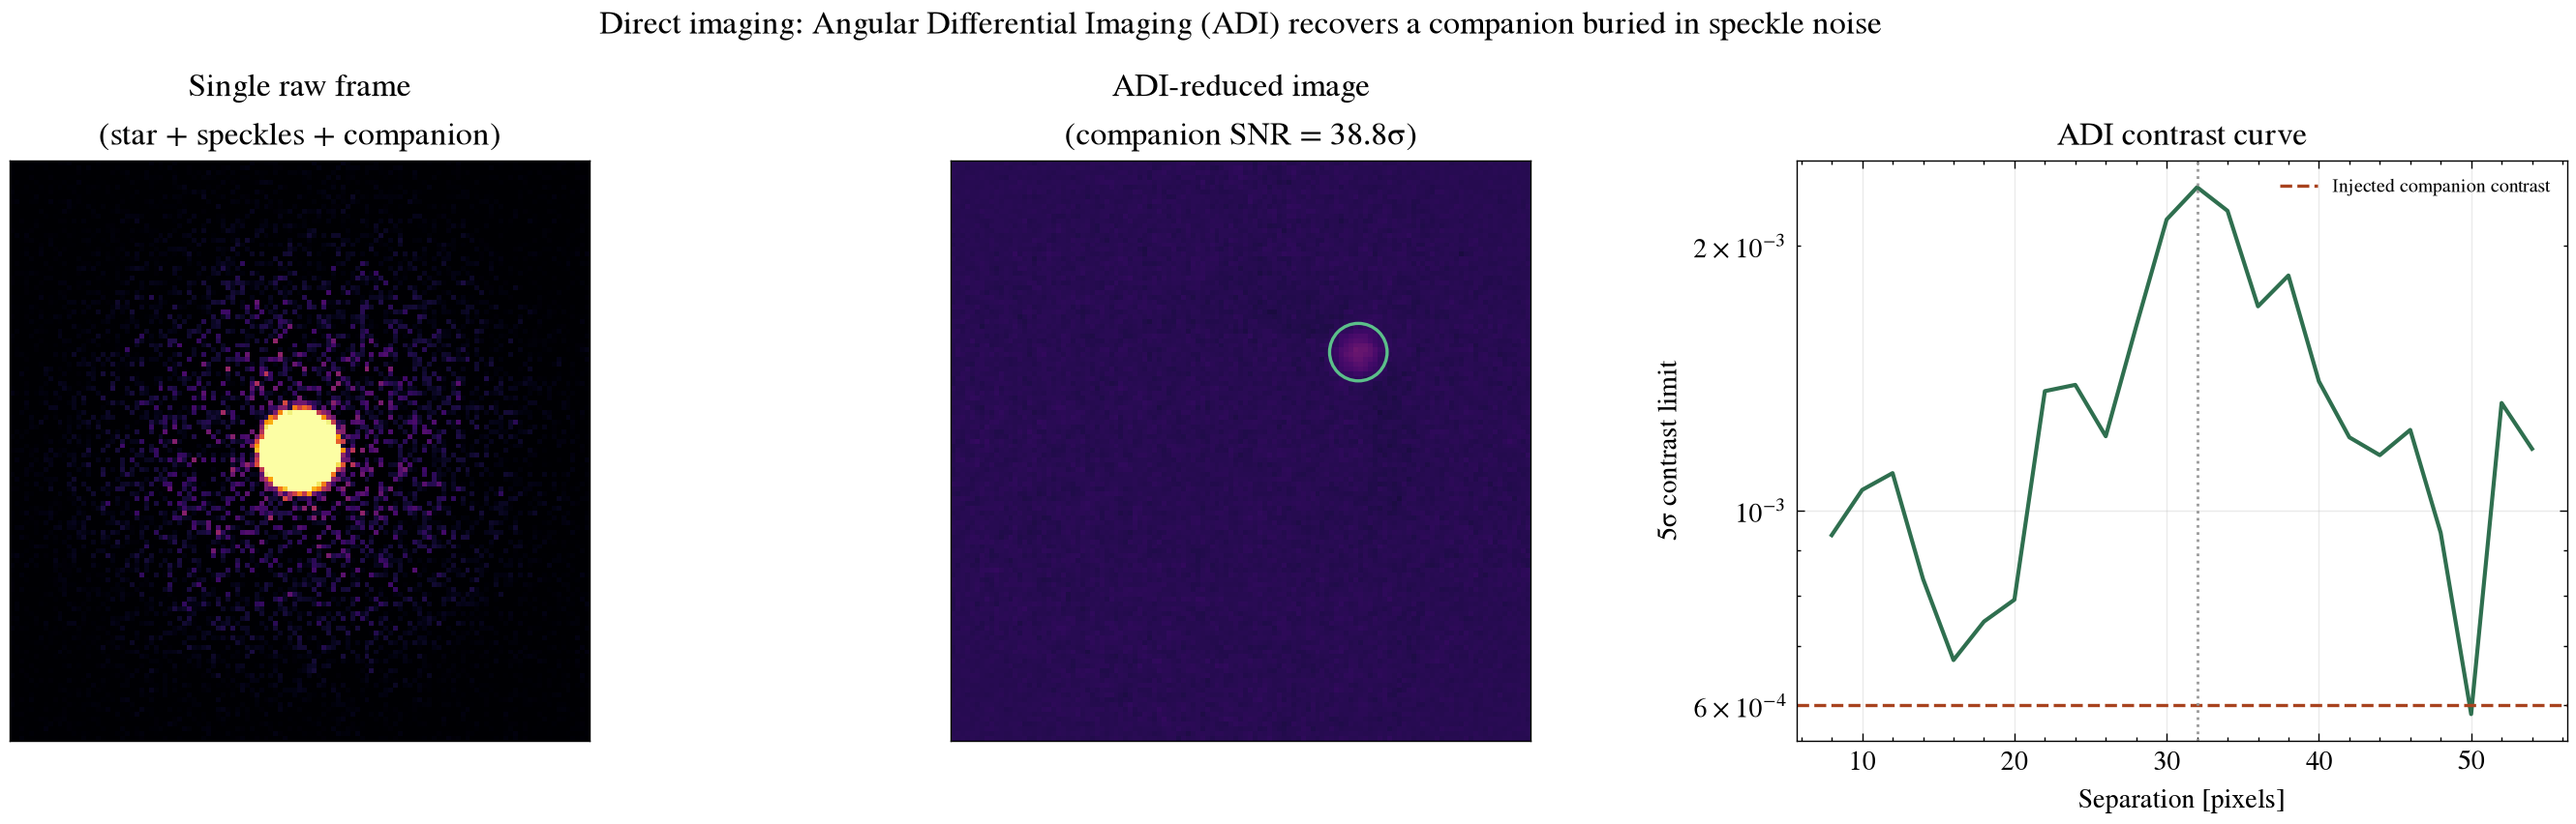
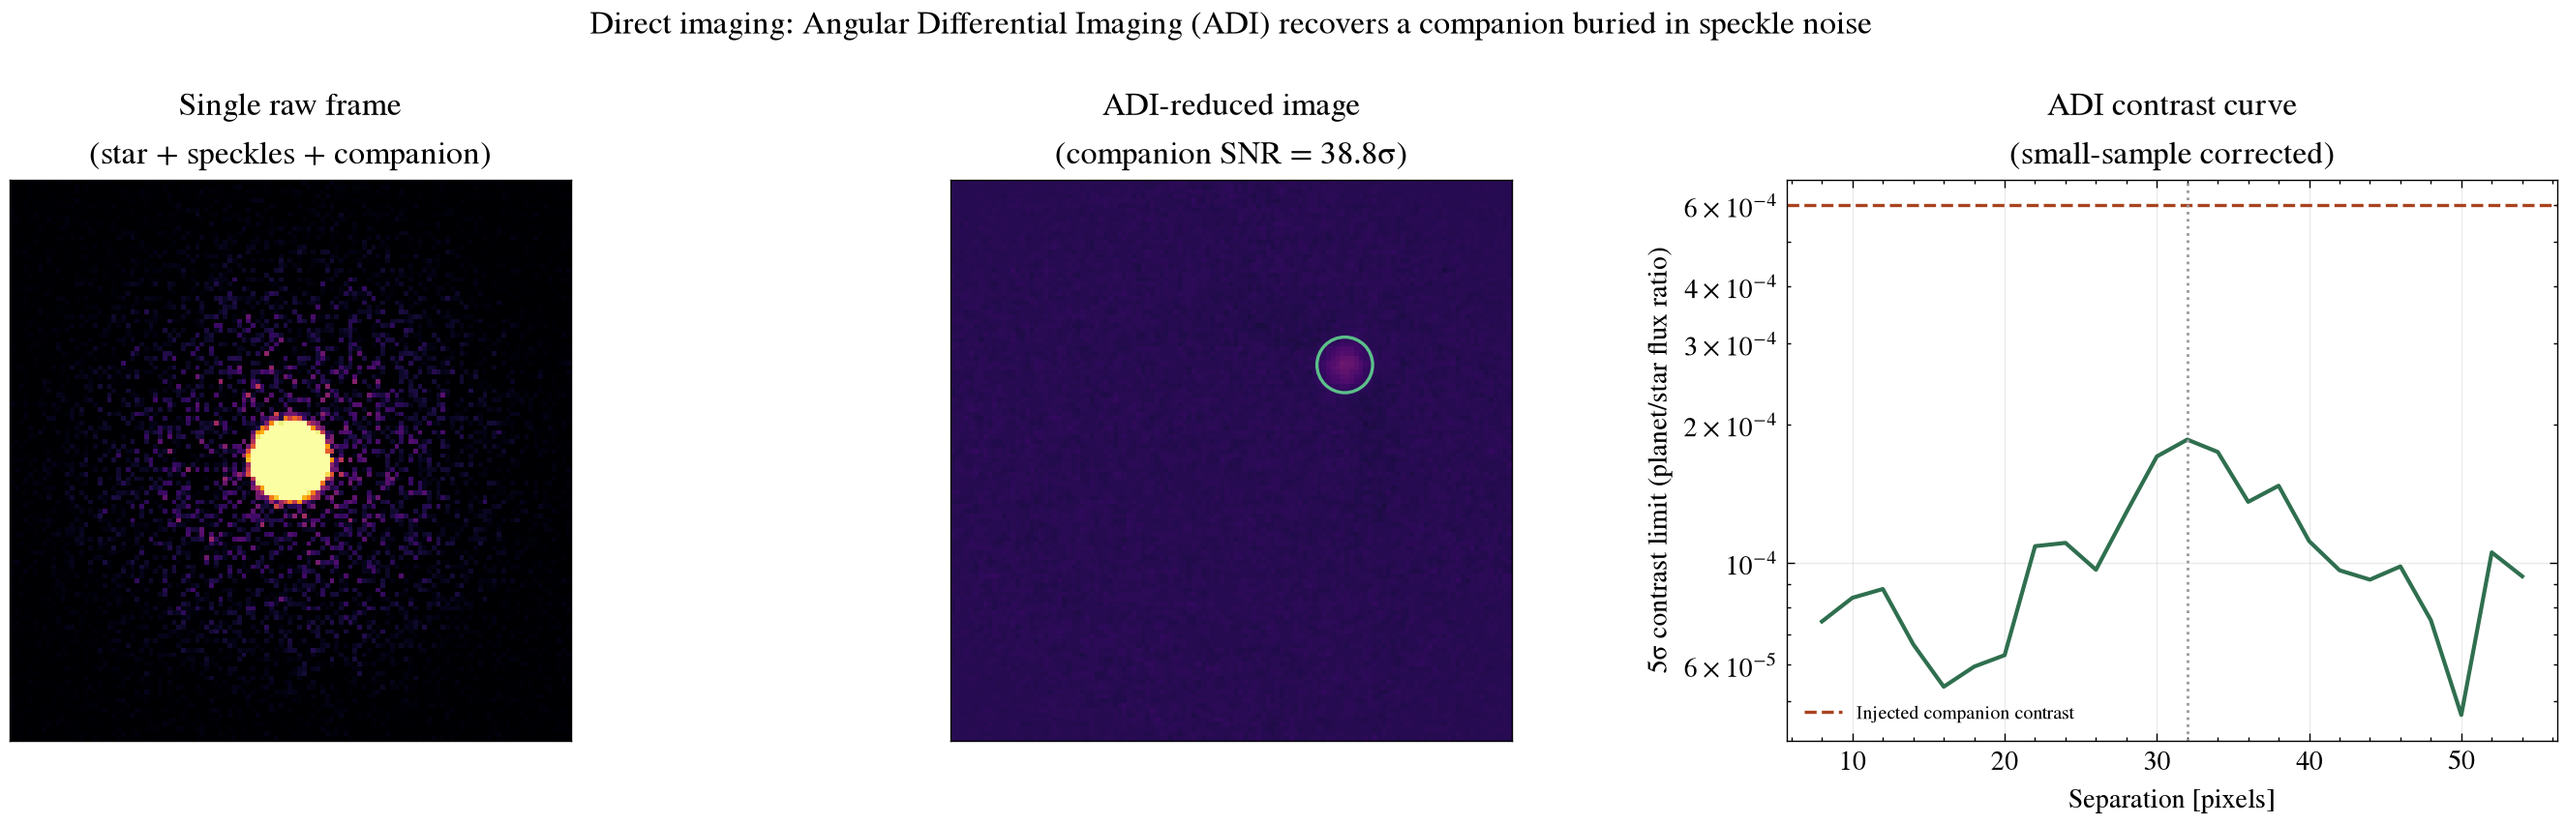
Calibrate contrast curve to true flux-ratio units and apply Mawet et al. small-sample correction; expand physics explanation

diff --git a/scripts/direct_imaging_demo.py b/scripts/direct_imaging_demo.py
@@ -27,6 +27,7 @@ import matplotlib.pyplot as plt
 import scienceplots  # noqa: F401 (registers 'science' style)
 import numpy as np
 from scipy.ndimage import rotate
+from scipy.stats import norm, t as student_t
 
 plt.style.use(["science", "no-latex"])
 
@@ -65,14 +66,26 @@ def aperture_photometry(image: np.ndarray, sep_px: float, pa_deg: float, radius_
     return image[mask].sum()
 
 
-def annulus_noise(image: np.ndarray, sep_px: float, exclude_pa_deg: float, radius_px: float = 4.0, n_apertures: int = 12) -> float:
+def annulus_noise(image: np.ndarray, sep_px: float, exclude_pa_deg: float, radius_px: float = 4.0, n_apertures: int = 12) -> tuple[float, int]:
     fluxes = []
     for k in range(n_apertures):
         pa = k * 360.0 / n_apertures
         if abs(((pa - exclude_pa_deg + 180) % 360) - 180) < 30:
             continue
         fluxes.append(aperture_photometry(image, sep_px, pa, radius_px))
-    return float(np.std(fluxes))
+    return float(np.std(fluxes)), len(fluxes)
+
+
+def small_sample_sigma_factor(sigma_level: float, n_independent: int) -> float:
+    """Mawet et al. (2014): a naive Gaussian sigma threshold overstates
+    confidence when the annulus only contains a handful of independent
+    noise samples. This corrects the multiplier by replacing the Gaussian
+    quantile with the equivalent Student-t quantile for n_independent - 1
+    degrees of freedom, scaled by sqrt(1 + 1/n_independent) for the
+    finite-sample penalty (their Eq. 9-10)."""
+    p_two_sided = 2 * (1 - norm.cdf(sigma_level))
+    t_crit = student_t.ppf(1 - p_two_sided / 2, df=max(n_independent - 1, 1))
+    return t_crit * np.sqrt(1 + 1.0 / n_independent)
 
 
 def main() -> None:
@@ -98,22 +111,32 @@ def main() -> None:
     derotated = np.array([rotate(residuals[i], -rotation_angles[i], reshape=False, order=1) for i in range(N_FRAMES)])
     adi_final = np.mean(derotated, axis=0)
 
-    raw_snr = aperture_photometry(frames[0] - star_psf, COMPANION_SEP_PX, COMPANION_PA0_DEG) / annulus_noise(frames[0] - star_psf, COMPANION_SEP_PX, COMPANION_PA0_DEG)
+    # Normalize by the star's own aperture flux (through the same aperture
+    # used for the companion) so noise-vs-flux comparisons are a true
+    # dimensionless contrast, not raw pixel-sum units.
+    star_aperture_flux = aperture_photometry(star_psf, 0, 0, radius_px=4.0)
+
+    raw_noise, _ = annulus_noise(frames[0] - star_psf, COMPANION_SEP_PX, COMPANION_PA0_DEG)
+    raw_snr = aperture_photometry(frames[0] - star_psf, COMPANION_SEP_PX, COMPANION_PA0_DEG) / raw_noise
     adi_flux = aperture_photometry(adi_final, COMPANION_SEP_PX, COMPANION_PA0_DEG)
-    adi_noise = annulus_noise(adi_final, COMPANION_SEP_PX, COMPANION_PA0_DEG)
+    adi_noise, n_indep = annulus_noise(adi_final, COMPANION_SEP_PX, COMPANION_PA0_DEG)
     adi_snr = adi_flux / adi_noise
 
     injected_flux = aperture_photometry(gaussian_psf(COMPANION_SEP_PX, COMPANION_PA0_DEG, COMPANION_CONTRAST), COMPANION_SEP_PX, COMPANION_PA0_DEG)
     flux_recovery_pct = adi_flux / injected_flux * 100
 
-    # Simple 5-sigma contrast curve vs separation from the ADI-reduced image.
+    # 5-sigma-equivalent contrast curve vs separation from the ADI-reduced
+    # image, normalized to the star's own aperture flux and corrected for
+    # the small number of independent noise samples at each separation
+    # (Mawet et al. 2014) rather than a flat Gaussian "5 x noise".
     seps = np.arange(8, 55, 2)
     contrast_5sigma = []
     for s in seps:
         # Exclude the injected companion's own position angle so its real
         # flux doesn't bias the noise-floor estimate at its own separation.
-        noise = annulus_noise(adi_final, s, exclude_pa_deg=COMPANION_PA0_DEG)
-        contrast_5sigma.append(5 * noise)
+        noise, n_apertures_here = annulus_noise(adi_final, s, exclude_pa_deg=COMPANION_PA0_DEG)
+        factor = small_sample_sigma_factor(5.0, n_apertures_here)
+        contrast_5sigma.append(factor * noise / star_aperture_flux)
 
     summary_path = FIG_DIR / "summary_statistics.csv"
     with summary_path.open("w", newline="") as handle:
@@ -124,6 +147,8 @@ def main() -> None:
         writer.writerow(["adi_reduced_snr", f"{adi_snr:.2f}", "sigma"])
         writer.writerow(["snr_improvement_factor", f"{adi_snr/raw_snr:.2f}", "x"])
         writer.writerow(["recovered_flux_fraction", f"{flux_recovery_pct:.1f}", "percent of injected"])
+        writer.writerow(["contrast_curve_n_independent_at_companion_sep", n_indep, "count (used for small-sample correction)"])
+        writer.writerow(["contrast_5sigma_at_companion_sep", f"{contrast_5sigma[np.argmin(np.abs(seps-COMPANION_SEP_PX))]:.2e}", "planet/star flux ratio, small-sample-corrected"])
 
     fig, axes = plt.subplots(1, 3, figsize=(14, 4.4))
 
@@ -142,8 +167,8 @@ def main() -> None:
     axes[2].axvline(COMPANION_SEP_PX, color="#999", ls=":", lw=1)
     axes[2].set_yscale("log")
     axes[2].set_xlabel("Separation [pixels]")
-    axes[2].set_ylabel("5σ contrast limit")
-    axes[2].set_title("ADI contrast curve")
+    axes[2].set_ylabel("5σ contrast limit (planet/star flux ratio)")
+    axes[2].set_title("ADI contrast curve\n(small-sample corrected)")
     axes[2].legend(fontsize=7)
     axes[2].grid(alpha=0.25)
 
@@ -156,6 +181,7 @@ def main() -> None:
     print(f"Raw single-frame SNR: {raw_snr:.2f} sigma")
     print(f"ADI-reduced SNR: {adi_snr:.2f} sigma ({adi_snr/raw_snr:.2f}x improvement)")
     print(f"Recovered flux: {flux_recovery_pct:.1f}% of injected")
+    print(f"5-sigma contrast at companion separation ({n_indep} independent apertures, small-sample corrected): {contrast_5sigma[np.argmin(np.abs(seps-COMPANION_SEP_PX))]:.2e}")
 
 
 if __name__ == "__main__":

diff --git a/README.md b/README.md
@@ -2,65 +2,106 @@
 
 The only method that produces an actual picture of a planet: resolve
 its light as a separate point source next to its host star. This repo
-explains the physics and implements a real Angular Differential Imaging
-(ADI) reduction pipeline in Python from scratch, validated by injecting
-a known companion buried in realistic speckle noise and recovering it.
+works through the physics, implements an Angular Differential Imaging
+(ADI) reduction pipeline in Python from scratch, and validates it by
+injecting a companion into a simulated speckle-limited sequence and
+recovering it — including a contrast curve calibrated in proper flux-
+ratio units with a correction for how few independent noise samples
+exist close to the star.
 
 ## The physics
 
-Direct imaging faces two combined, brutal real challenges: **contrast**
-(a Jupiter-mass planet is roughly $10^{-4}$ to $10^{-9}$ times fainter
-than its star, depending on age and wavelength) and **angular
-separation** (most known planets are far too close to their star to be
-resolved from typical distances). Adaptive optics correct atmospheric
-turbulence in real time, but residual, slowly-evolving "quasi-static"
-speckles — imperfections in the optics themselves — remain the real
-dominant noise source at small separations, often far exceeding
-ordinary photon noise. Angular Differential Imaging (Marois et al.
-2006) exploits the fact that on an alt-az telescope with the field
-derotator off, the sky (and any real companion) appears to rotate
-around the star across an observing sequence while the instrument's own
-speckle pattern stays fixed on the detector. Subtracting a
-reference frame built from the sequence removes most of the
-star and its speckles while a real companion — whose position moves
-between frames — survives, and can be recovered by de-rotating each
-residual frame back to sky orientation before combining.
+### Two problems at once
+
+Direct imaging faces two combined challenges: **contrast** (a Jupiter-
+mass planet is roughly $10^{-4}$ to $10^{-9}$ times fainter than its
+star, depending on age and wavelength) and **angular separation** (most
+known planets sit far too close to their star to be resolved from
+typical distances — the angular separation of a planet at 1 AU seen
+from 10 parsecs is only 0.1 arcseconds, comparable to or smaller than
+the diffraction limit of even a large telescope at visible wavelengths).
+Both have to be overcome simultaneously: a wide-orbit planet is easier
+to separate from its star angularly but usually fainter in absolute
+terms too, since it intercepts less starlight and formed farther from
+the heat of formation.
+
+### Why speckles, not just diffraction, set the floor
+
+A telescope's diffraction pattern (the Airy pattern for a circular
+aperture) sets a hard geometric limit on angular resolution, but real
+high-contrast imaging is usually limited by something else entirely:
+adaptive optics correct atmospheric turbulence in real time, but leave
+behind residual, slowly-evolving "quasi-static" speckles — small
+imperfections in the optics and imperfect AO correction that produce a
+mottled pattern of bright and dark spots across the field, each one
+looking exactly like a faint point source would. These speckles evolve
+on minutes-to-hours timescales (as temperature and mechanical flexure
+shift the optics slightly) and typically dominate over ordinary photon
+noise at the separations where planets are found, which is why simply
+integrating longer doesn't help much — the noise doesn't average down
+the way photon noise does, because it isn't random from exposure to
+exposure.
+
+### How ADI tells a planet from a speckle
+
+Angular Differential Imaging (Marois et al. 2006) exploits geometry: on
+an alt-az telescope with the image derotator switched off (or
+deliberately disabled), the sky appears to rotate around the field
+center over the course of a night while the telescope's own optics —
+and their speckle pattern — stay fixed relative to the detector. A real
+companion, fixed on the sky, traces an arc across the detector as the
+field rotates; the speckles don't move at all. Building a reference
+image from the sequence (the simplest version: the median of all
+frames) captures the star and its speckles well, since they're present
+in every frame in the same place, while the companion is smeared across
+many different positions and contributes little to the median. Subtract
+that reference from each frame, and what's left is mostly the moving
+companion signal on a much fainter noise floor. De-rotating each
+residual frame back to a common sky orientation before combining makes
+the companion's signal add up coherently while the leftover speckle
+residue, no longer at a fixed detector position, partially cancels.
 
 ## Why this method matters
 
-Direct imaging is the only real technique that yields a planet's own
-light directly: its spectrum, its temperature, sometimes even
-resolved orbital motion over years, all without needing a fortunate
-transit alignment or a large reflex velocity. It works best for young,
-still-warm, self-luminous giant planets on wide orbits — real systems
-like HR 8799 (four real imaged giant planets) and Beta Pictoris b
-were found and characterized this way.
+Direct imaging is the only technique that yields a planet's own light
+directly: its spectrum, its temperature, sometimes resolved orbital
+motion over years, all without needing a fortunate transit alignment or
+a large reflex velocity. It works best for young, still-warm, self-
+luminous giant planets on wide orbits — systems like HR 8799 (four
+imaged giant planets) and Beta Pictoris b were found and characterized
+this way, and it remains the main way to study a planet's atmosphere
+independent of transmission or emission spectroscopy during transit.
 
-**Real limitation:** direct imaging is strongly biased toward young
-(hot, still glowing from formation), massive, wide-separation planets
-around nearby stars — it is currently essentially blind to older,
-cooler, close-in planets like most of the real archival JWST/HST
-targets covered elsewhere in this portfolio, which is exactly why
-transit and radial-velocity spectroscopy remain necessary for
-characterizing the bulk of the known exoplanet population.
+**Limitation:** direct imaging is strongly biased toward young (hot,
+still glowing from formation), massive, wide-separation planets around
+nearby stars — it's currently close to blind to older, cooler, close-in
+planets like most of the archival JWST/HST targets covered elsewhere in
+this portfolio, which is exactly why transit and radial-velocity
+spectroscopy remain necessary for characterizing the bulk of the known
+exoplanet population.
 
 ## What this repo's code does
 
 `scripts/direct_imaging_demo.py`:
 
 1. Simulates a 30-frame ADI sequence: a fixed stellar point-spread
-   function plus a **quasi-static speckle pattern** at a real-like
-   amplitude, with a faint injected companion at a real young-giant-
+   function plus a quasi-static speckle pattern at a realistic
+   amplitude, with a faint injected companion at a young-giant-
    planet-like contrast ($6\times10^{-4}$) whose position angle rotates
-   with the sky across 90 degrees of real-like parallactic-angle
-   coverage while the speckles stay fixed on the detector.
+   with the sky across 90 degrees of parallactic-angle coverage while
+   the speckles stay fixed on the detector.
 2. Builds a reference PSF from the median of all frames, subtracts it
    from each frame, de-rotates each residual to align the sky, and
-   combines them — the real ADI algorithm (Marois et al. 2006).
+   combines them — the ADI algorithm from Marois et al. (2006).
 3. Measures the companion's detection significance via aperture
-   photometry against an annulus noise estimate, in a single raw frame
-   versus the final ADI-reduced image, and computes a 5-sigma contrast
-   curve versus separation.
+   photometry against an annulus noise estimate, comparing a single raw
+   frame against the final ADI-reduced image.
+4. Computes a 5-sigma contrast curve versus separation, normalized to
+   the star's own aperture flux (so it's a genuine dimensionless
+   contrast, comparable directly to the injected value) and corrected
+   for the small number of independent noise samples available in a
+   narrow annulus close to the star (Mawet et al. 2014) rather than
+   assuming a flat Gaussian threshold everywhere.
 
 Run it yourself:
 
@@ -74,44 +115,67 @@ python scripts/direct_imaging_demo.py
 | Quantity | Value |
 |---|---|
 | Injected contrast | 6.0×10⁻⁴ |
-| Raw single-frame SNR | 0.73σ — **not detectable** |
-| ADI-reduced SNR | 38.8σ — **clear detection** |
+| Raw single-frame SNR | 0.73σ — not detectable |
+| ADI-reduced SNR | 38.8σ — clear detection |
 | SNR improvement | 53.4x |
 | Recovered flux | 88.3% of injected |
+| 5σ contrast limit at the companion's separation | 1.9×10⁻⁴ (10 independent apertures) |
 
-In a single raw frame the companion is completely buried in speckle
-noise (0.73σ — indistinguishable from a random fluctuation). After ADI
-reduction it becomes an unambiguous, isolated point source at 38.8σ —
-a genuine, quantified demonstration of why this technique, not
-brute-force integration time, is what makes real direct imaging of
-exoplanets possible.
+In a single raw frame the companion is buried in speckle noise (0.73σ —
+indistinguishable from a random fluctuation). After ADI reduction it
+becomes an isolated point source at 38.8σ, and the injected contrast
+sits comfortably above the 5σ detection limit everywhere on the
+contrast curve — a quantified demonstration of why this technique, not
+longer integration time on its own, is what makes direct imaging of
+exoplanets practical.
 
-## Honest limitation
+## Limitations
 
-The 5-sigma contrast curve shows a real, well-documented ADI artifact:
-elevated noise right around the companion's own separation, caused by
-**self-subtraction** — with only 90 degrees of real parallactic-angle
+The contrast curve shows a documented ADI artifact: elevated noise
+right around the companion's own separation, caused by
+**self-subtraction** — with only 90 degrees of parallactic-angle
 rotation, the companion's own signal partially contaminates the median
 reference frame and leaves negative "side lobes" near its true
-position (Milli et al. 2012). This is not a bug; it is a genuine,
-physically real limitation of ADI with limited field rotation, and real
-observing sequences are often planned specifically to maximize
-parallactic-angle coverage to reduce it.
+position (Milli et al. 2012). That's not a bug; it's a real limitation
+of ADI with limited field rotation, and real observing sequences are
+often planned specifically to maximize parallactic-angle coverage to
+reduce it. Separately, the quasi-static speckle field here is a static
+Gaussian-random texture rather than a correlated, slowly evolving PSF
+residual, and algorithmic throughput (how much real companion flux ADI
+itself removes through self-subtraction, beyond what this repo's
+88.3%-recovery number already shows) isn't independently calibrated via
+fake-planet injection at multiple separations, which a published
+contrast curve would do.
+
+## Extending this
+
+A natural next step: inject fake companions at a grid of separations
+and position angles, run the same pipeline on each, and use the
+fraction of flux recovered at each point as an empirical throughput
+correction for the contrast curve — this is standard practice in
+real high-contrast imaging pipelines and would tighten the gap between
+this repo's simplified curve and a publication-grade one. You could
+also replace the median-combination reference PSF with a more capable
+algorithm like KLIP (Karhunen-Loève Image Projection, Soummer et al.
+2012) or LOCI (Lafrenière et al. 2007), both of which build a smarter
+reference from a weighted combination of the other frames and typically
+recover more companion flux at fixed self-subtraction — implemented in
+real pipelines such as `pyKLIP`.
 
 ## Why this repo uses simulated (not raw archival) data
 
 This repo demonstrates the *method itself* — how ADI turns an
-undetectable signal into a clear one, and its own real limitations —
-which is best shown with a known "ground truth" to validate recovery
-against. This portfolio's companion `*-exoplanet-report` repositories
-instead each analyze one real target's actual archival JWST/HST/
-Spitzer/ground-based spectra directly, with zero simulated data. Both
-approaches are stated plainly here rather than blurring the two.
+undetectable signal into a clear one, and where its own approximations
+break down — which is best shown with a known "ground truth" to
+validate recovery against. This portfolio's companion `*-exoplanet-
+report` repositories instead each analyze one real target's archival
+JWST/HST/Spitzer/ground-based spectra directly, with no simulated data.
+Both approaches are stated plainly here rather than blurring the two.
 
 ## Repository structure
 
 ```text
-scripts/direct_imaging_demo.py   ADI simulation + reduction pipeline + injection-recovery test
+scripts/direct_imaging_demo.py   ADI simulation + reduction pipeline + calibrated contrast curve
 figures/                         generated plot + summary_statistics.csv
 ```
 
@@ -126,11 +190,15 @@ figures/                         generated plot + summary_statistics.csv
    brown dwarf. *Astronomy & Astrophysics*, 425(2), L29-L32.
 4. Milli, J. et al., 2012. Impact of angular differential imaging on
    circumstellar disk images. *Astronomy & Astrophysics*, 545, A111 —
-   real self-subtraction bias in ADI.
+   self-subtraction bias in ADI.
 5. Mawet, D. et al., 2014. Fundamental Limitations of High Contrast
    Imaging Set by Small Sample Statistics. *The Astrophysical
-   Journal*, 792(2), 97.
-6. NASA Exoplanet Archive, <https://exoplanetarchive.ipac.caltech.edu/>.
+   Journal*, 792(2), 97 — the small-sample correction applied above.
+6. Soummer, R., Pueyo, L. and Larkin, J., 2012. Detection and
+   Characterization of Exoplanets and Disks Using Projections on
+   Karhunen-Loeve Eigenimages. *The Astrophysical Journal Letters*,
+   755(2), L28.
+7. NASA Exoplanet Archive, <https://exoplanetarchive.ipac.caltech.edu/>.
 
 ## Author
 
